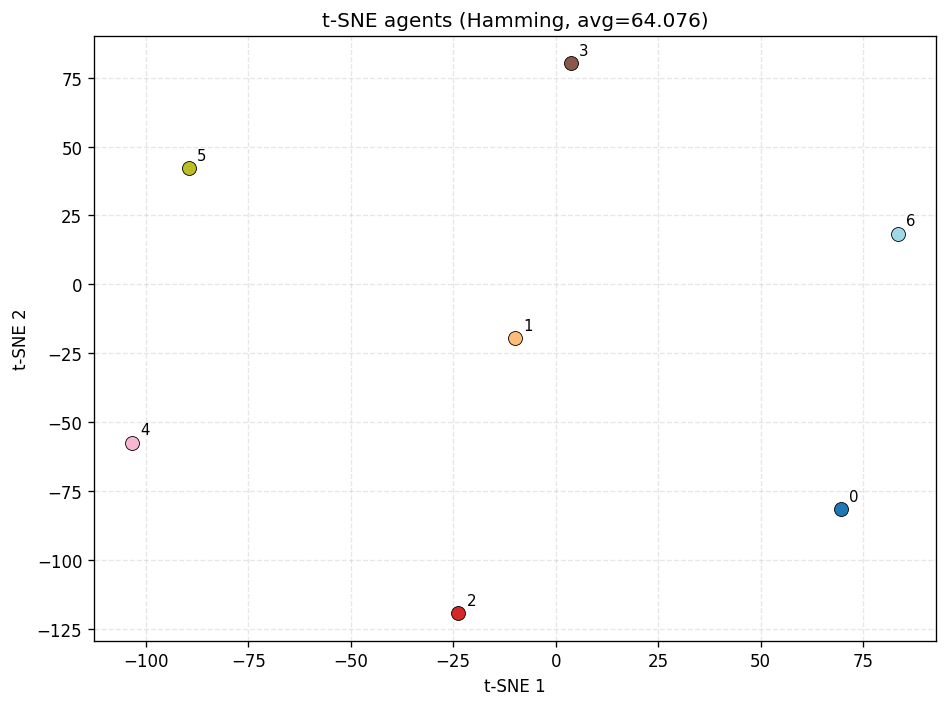
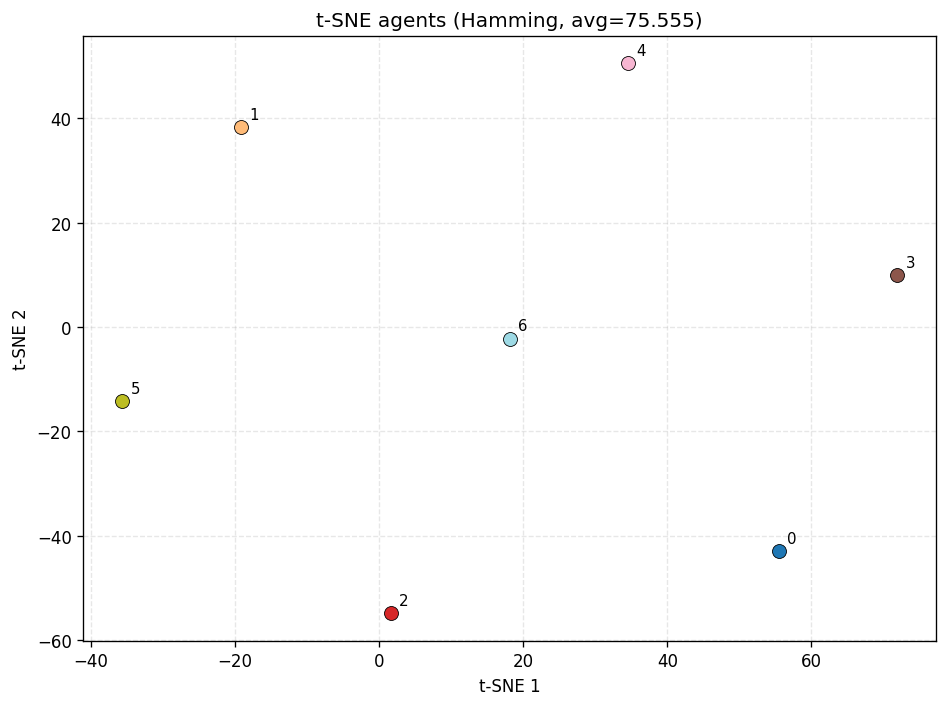
normalisation du ration

diff --git a/source_code/eda_strategies/MultiAgentUnivariate/SVGD_EDA.py b/source_code/eda_strategies/MultiAgentUnivariate/SVGD_EDA.py
@@ -326,20 +326,18 @@ class SVGD_EDA(Abstract_EDA, nn.Module):
             log_Pi = self._compute_log_pi(indivduals)  # (BM, λa), dans le graphe de calcul
 
             # Ratio d'importance sampling : r = exp(log π_θ - log π_θ_old)
-            ratio = torch.exp(log_Pi - log_Pi_old)     # (BM, λa)
-
-            with torch.no_grad():
-                ratio_inst0 = ratio.view(B, M, λa)[0]  # (M, λa) — instance 0
-                print(f"[PPO ratio | epoch {k+1}/{self.ppo_epochs}]")
-                for agent_idx in range(M):
-                    vals = ratio_inst0[agent_idx].cpu().tolist()
-                    vals_str = " ".join(f"{v:.3f}" for v in vals)
-                    print(f"  agent {agent_idx}: {vals_str}")
-
+            ratio = torch.exp((log_Pi - log_Pi_old) / N) # (BM, λa) normalisé par N
+            # with torch.no_grad():
+            #     ratio_inst0 = ratio.view(B, M, λa)[0]  # (M, λa) — instance 0
+            #     print(f"[PPO ratio | epoch {k+1}/{self.ppo_epochs}]")
+            #     for agent_idx in range(M):
+            #         vals = ratio_inst0[agent_idx].cpu().tolist()
+            #         vals_str = " ".join(f"{v:.3f}" for v in vals)
+            #         print(f"  agent {agent_idx}: {vals_str}")
             # Objectif surrogate PPO (POSITIF : ascension, pas descente)
             surr1 = ratio * advantages
             surr2 = torch.clamp(ratio, 1.0 - self.clip_eps, 1.0 + self.clip_eps) * advantages
-            surrogate = torch.min(surr1, surr2)         # (BM, λa)
+            surrogate = torch.min(surr1, surr2) * N         # (BM, λa)
 
             # Objectif : (1/λ) · Σ_l min(...)  — γ géré en interne par SVGD
             objective = surrogate.mean(dim=1).sum()
